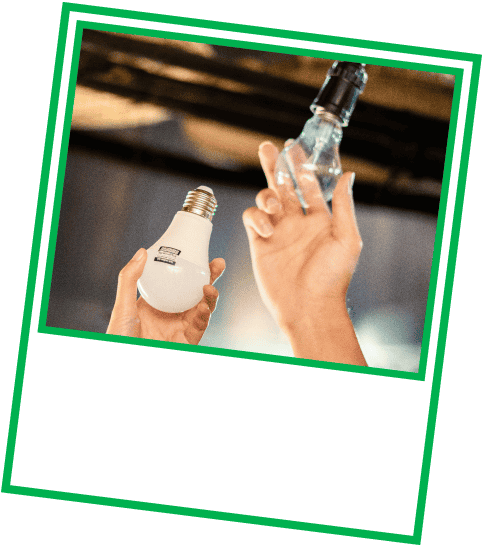
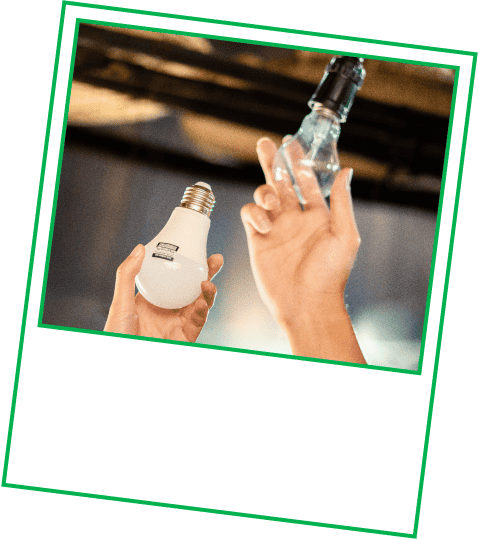
Pushed from Locofy Builder

diff --git a/index.css b/index.css
@@ -310,13 +310,13 @@
   font-family: var(--font-inter);
 }
 .greenline-icon2 {
-  width: 317.6px;
+  width: 318.6px;
   height: 64.05%;
   position: absolute;
   margin: 0 !important;
   top: 26.94%;
   bottom: 9.01%;
-  left: calc(50% - 168.5px);
+  left: calc(50% - 169.5px);
   max-height: 100%;
   z-index: 0;
 }
@@ -429,8 +429,12 @@
   max-height: 100%;
   z-index: 5;
 }
+.quick-quiz,
 .screen3 {
   align-self: stretch;
+  position: relative;
+}
+.screen3 {
   height: 1043px;
   overflow: hidden;
   flex-shrink: 0;
@@ -440,7 +444,6 @@
   justify-content: flex-start;
   padding: var(--padding-41xl) var(--padding-27xl);
   box-sizing: border-box;
-  position: relative;
   gap: 51px;
   background-image: url(./public/screen3@3x.png);
   background-size: cover;
@@ -451,15 +454,12 @@
   color: var(--color-darkslategray);
   font-family: var(--font-inter);
 }
-.thats-not-all {
+.quick-quiz {
   margin: 0;
-  width: 370px;
-  position: relative;
   font-size: inherit;
   line-height: 40px;
   font-weight: 800;
   font-family: inherit;
-  display: inline-block;
 }
 .youll-be-supporting-container {
   align-self: stretch;
@@ -516,34 +516,25 @@
 .here {
   text-decoration: underline;
 }
+.goes-to-show-container,
+.since-2021-grab {
+  letter-spacing: -0.01em;
+  line-height: 23px;
+  display: inline-block;
+}
 .goes-to-show-container {
   width: 272px;
   position: absolute;
   margin: 0 !important;
   top: 70.81%;
   left: calc(50% - 180px);
-  letter-spacing: -0.01em;
-  line-height: 23px;
-  display: inline-block;
   z-index: 1;
-}
-.quick-quiz {
-  margin: 0;
-  align-self: stretch;
-  position: relative;
-  font-size: inherit;
-  line-height: 40px;
-  font-weight: 800;
-  font-family: inherit;
 }
 .since-2021-grab {
   width: 242px;
   position: relative;
   font-size: var(--font-size-mid);
-  letter-spacing: -0.01em;
-  line-height: 23px;
   font-weight: 500;
-  display: inline-block;
 }
 .button3-icon,
 .screen5-title {

diff --git a/index.html b/index.html
@@ -117,7 +117,9 @@
           <span class="grabforgood-forest-programme"
             >gives away 6 million LED bulbs</span
           >
-          <span class="thats-why-the"> to homes across Vietnam…for free. </span>
+          <span class="thats-why-the">
+            to homes across Vietnam… for free.
+          </span>
         </div>
         <div class="youll-also-support-container">
           <p class="vietnam-has-a">
@@ -164,7 +166,7 @@
       </section>
       <section class="screen4tophalf">
         <div class="screen4-description">
-          <h1 class="thats-not-all">That’s not all.</h1>
+          <h1 class="quick-quiz">That’s not all.</h1>
           <div class="youll-be-supporting-container">
             <p class="vietnam-has-a">
               <span class="youll-also-support"
